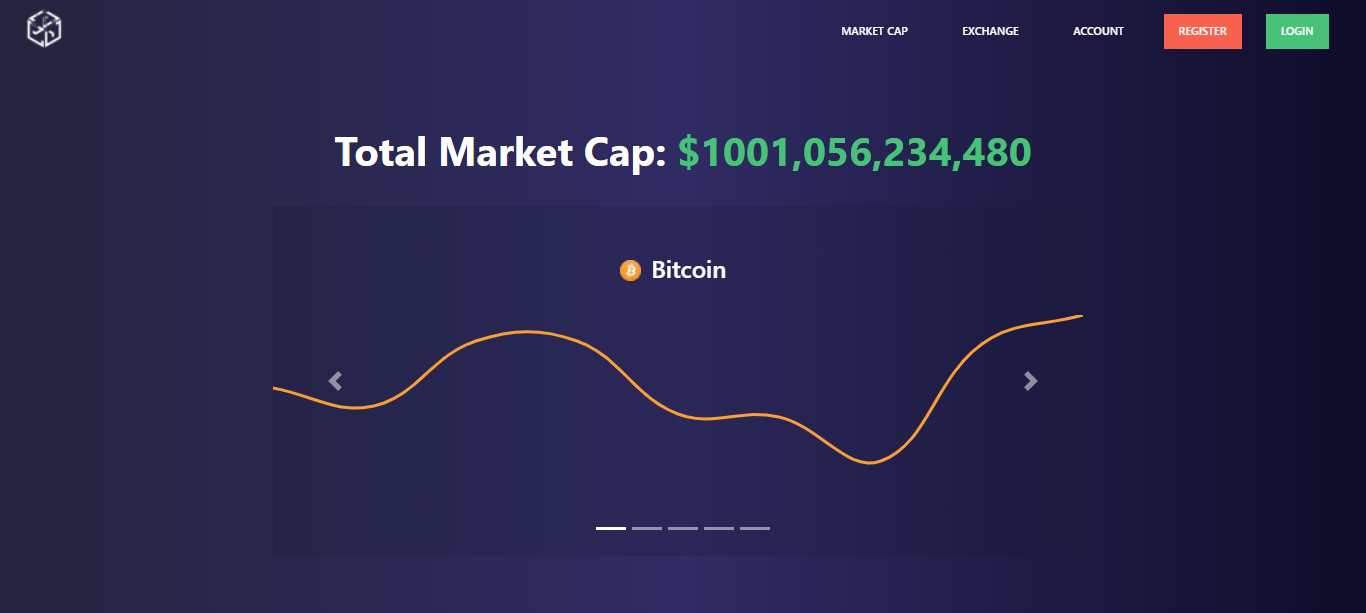
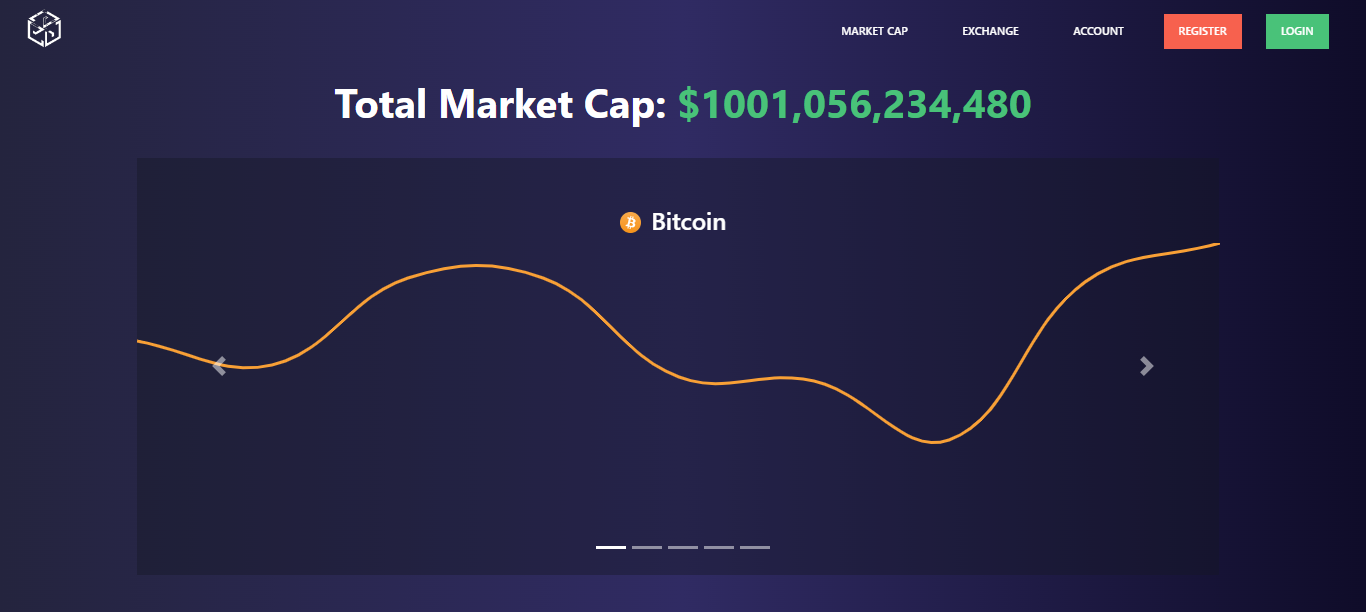
Version 1.8 - Real-time market cap

diff --git a/index.html b/index.html
@@ -16,12 +16,6 @@
     h1 {
         margin: 3rem 0 2rem;
     }
-
-    @media screen and (min-width: 1281px) {
-        .col-2-3 {
-            margin: 0 20%;
-        }
-    }
 </style>
 <body>
 <div id="loading">
@@ -48,8 +42,8 @@
 </nav>
 
 <!-- Main Content -->
-<div class="flex-container">
-    <div class="col-2-3 text-center fadeInUp">
+<div class="flex-container" style="margin-top: 2rem">
+    <div class="col-2-3 text-center fadeInDown">
         <h1><b>Total Market Cap: <span class="green-text">$1001,056,234,480</span></b></h1>
         <div id="carouselIndicators" class="carousel slide carousel-fade" data-ride="carousel">
             <ol class="carousel-indicators">
@@ -129,153 +123,158 @@
             </a>
         </div>
 
-        <h1 class="green-text"><b>Top 10 Cryptocurrencies</b></h1>
+        <h1><b><span class="green-text">Top 100</span> Cryptocurrencies</b></h1>
 
-        <table class="history-table marketcap-table">
-            <thead>
-            <tr>
-                <th scope="col">Rank</th>
-                <th scope="col">Name</th>
-                <th scope="col">Market Cap</th>
-                <th scope="col">Price</th>
-                <th scope="col">24 Hour Volume</th>
-                <th scope="col">Change</th>
-                <th scope="col">7 days</th>
-            </tr>
-            </thead>
-            <tbody>
-            <tr>
-                <th>1</th>
-                <td class="coin-name">
-                    <img src="images/coins/btc.png" width="15" class="coin-icon" alt="coin">BTC
-                </td>
-                <td>$239048209</td>
-                <td>$4559</td>
-                <td>$2344234</td>
-                <td class="red-text">-0.04%</td>
-                <td class="marketcap-canvas" data-charts="[65,59,81,81,56,55,40,80,90]" data-border="dc3545">
-                    <canvas></canvas>
-                </td>
-            </tr>
-            <tr>
-                <th>2</th>
-                <td class="coin-name">
-                    <img src="images/coins/eth.png" width="15" class="coin-icon" alt="coin">ETH
-                </td>
-                <td>$239048209</td>
-                <td>$4559</td>
-                <td>$2344234</td>
-                <td class="red-text">-4.04%</td>
-                <td class="marketcap-canvas" data-charts="[34,54,23,56,76,78,34,56,45]" data-border="dc3545">
-                    <canvas></canvas>
-                </td>
-            </tr>
-            <tr>
-                <th>3</th>
-                <td class="coin-name">
-                    <img src="images/coins/ltc.png" width="15" class="coin-icon" alt="coin">LTC
-                </td>
-                <td>$239048209</td>
-                <td>$4559</td>
-                <td>$2344234</td>
-                <td class="green-text">3.04%</td>
-                <td class="marketcap-canvas" data-charts="[55,40,80,90,65,59,81,81,56]" data-border="8cd8aa">
-                    <canvas></canvas>
-                </td>
-            </tr>
-            <tr>
-                <th>4</th>
-                <td class="coin-name">
-                    <img src="images/coins/btcc.png" width="15" class="coin-icon" alt="coin">BTCC
-                </td>
-                <td>$239048209</td>
-                <td>$4559</td>
-                <td>$2344234</td>
-                <td class="red-text">-0.45%</td>
-                <td class="marketcap-canvas" data-charts="[89,23,67,45,23,45,78,34,56,67]" data-border="dc3545">
-                    <canvas></canvas>
-                </td>
-            </tr>
-            <tr>
-                <th>5</th>
-                <td class="coin-name">
-                    <img src="images/coins/xrp.png" width="15" class="coin-icon" alt="coin">XRP
-                </td>
-                <td>$239048209</td>
-                <td>$4559</td>
-                <td>$2344234</td>
-                <td class="green-text">6.04%</td>
-                <td class="marketcap-canvas" data-charts="[34,45,56,67,65,45,34,23,45,56]" data-border="8cd8aa">
-                    <canvas></canvas>
-                </td>
-            </tr>
-            <tr>
-                <th>6</th>
-                <td class="coin-name">
-                    <img src="images/coins/tron.png" width="15" class="coin-icon" alt="coin">TRX
-                </td>
-                <td>$239048209</td>
-                <td>$4559</td>
-                <td>$2344234</td>
-                <td class="red-text">-6.7%</td>
-                <td class="marketcap-canvas" data-charts="[45,34,45,56,67,45,56,67,78,67]" data-border="dc3545">
-                    <canvas></canvas>
-                </td>
-            </tr>
-            <tr>
-                <th>7</th>
-                <td class="coin-name">
-                    <img src="images/coins/stlr.png" width="15" class="coin-icon" alt="coin">XLM
-                </td>
-                <td>$239048209</td>
-                <td>$4559</td>
-                <td>$2344234</td>
-                <td class="green-text">2.04%</td>
-                <td class="marketcap-canvas" data-charts="[56,45,67,45,34,45,56,67,56,45]" data-border="8cd8aa">
-                    <canvas></canvas>
-                </td>
-            </tr>
-            <tr>
-                <th>8</th>
-                <td class="coin-name">
-                    <img src="images/coins/tether.png" width="15" class="coin-icon" alt="coin">USDT
-                </td>
-                <td>$239048209</td>
-                <td>$4559</td>
-                <td>$2344234</td>
-                <td class="green-text">5.04%</td>
-                <td class="marketcap-canvas" data-charts="[65,59,81,81,56,55,40,80,90]" data-border="8cd8aa">
-                    <canvas></canvas>
-                </td>
-            </tr>
-            <tr>
-                <th>9</th>
-                <td class="coin-name">
-                    <img src="images/coins/dash.png" width="15" class="coin-icon" alt="coin">DSH
-                </td>
-                <td>$239048209</td>
-                <td>$4559</td>
-                <td>$2344234</td>
-                <td class="green-text">2.04%</td>
-                <td class="marketcap-canvas" data-charts="[65,59,81,81,56,55,40,80,90]" data-border="8cd8aa">
-                    <canvas></canvas>
-                </td>
-            </tr>
-            <tr>
-                <th>10</th>
-                <td class="coin-name">
-                    <img src="images/coins/monero.png" width="15" class="coin-icon" alt="coin">XMR
-                </td>
-                <td>$239048209</td>
-                <td>$4559</td>
-                <td>$2344234</td>
-                <td class="green-text">3.04%</td>
-                <td class="marketcap-canvas" data-charts="[65,81,40,80,56,59,81,55,90]" data-border="8cd8aa">
-                    <canvas></canvas>
-                </td>
-            </tr>
-            </tbody>
-        </table>
+        <div class="form" style="border: none; margin-top: 2rem; overflow: hidden;">
+            <iframe src="https://widget.coinlib.io/widget?type=full_v2&theme=dark&cnt=100&pref_coin_id=1505&graph=yes"
+                    width="103%" height="1000px" marginwidth="0" marginheight="0" frameborder="0" border="0">
+            </iframe>
+        </div>
+        <!--        <table class="history-table marketcap-table">-->
+        <!--            <thead>-->
+        <!--            <tr>-->
+        <!--                <th scope="col">Rank</th>-->
+        <!--                <th scope="col">Name</th>-->
+        <!--                <th scope="col">Market Cap</th>-->
+        <!--                <th scope="col">Price</th>-->
+        <!--                <th scope="col">24 Hour Volume</th>-->
+        <!--                <th scope="col">Change</th>-->
+        <!--                <th scope="col">7 days</th>-->
+        <!--            </tr>-->
+        <!--            </thead>-->
+        <!--            <tbody>-->
+        <!--            <tr>-->
+        <!--                <th>1</th>-->
+        <!--                <td class="coin-name">-->
+        <!--                    <img src="images/coins/btc.png" width="15" class="coin-icon" alt="coin">BTC-->
+        <!--                </td>-->
+        <!--                <td>$239048209</td>-->
+        <!--                <td>$4559</td>-->
+        <!--                <td>$2344234</td>-->
+        <!--                <td class="red-text">-0.04%</td>-->
+        <!--                <td class="marketcap-canvas" data-charts="[65,59,81,81,56,55,40,80,90]" data-border="dc3545">-->
+        <!--                    <canvas></canvas>-->
+        <!--                </td>-->
+        <!--            </tr>-->
+        <!--            <tr>-->
+        <!--                <th>2</th>-->
+        <!--                <td class="coin-name">-->
+        <!--                    <img src="images/coins/eth.png" width="15" class="coin-icon" alt="coin">ETH-->
+        <!--                </td>-->
+        <!--                <td>$239048209</td>-->
+        <!--                <td>$4559</td>-->
+        <!--                <td>$2344234</td>-->
+        <!--                <td class="red-text">-4.04%</td>-->
+        <!--                <td class="marketcap-canvas" data-charts="[34,54,23,56,76,78,34,56,45]" data-border="dc3545">-->
+        <!--                    <canvas></canvas>-->
+        <!--                </td>-->
+        <!--            </tr>-->
+        <!--            <tr>-->
+        <!--                <th>3</th>-->
+        <!--                <td class="coin-name">-->
+        <!--                    <img src="images/coins/ltc.png" width="15" class="coin-icon" alt="coin">LTC-->
+        <!--                </td>-->
+        <!--                <td>$239048209</td>-->
+        <!--                <td>$4559</td>-->
+        <!--                <td>$2344234</td>-->
+        <!--                <td class="green-text">3.04%</td>-->
+        <!--                <td class="marketcap-canvas" data-charts="[55,40,80,90,65,59,81,81,56]" data-border="8cd8aa">-->
+        <!--                    <canvas></canvas>-->
+        <!--                </td>-->
+        <!--            </tr>-->
+        <!--            <tr>-->
+        <!--                <th>4</th>-->
+        <!--                <td class="coin-name">-->
+        <!--                    <img src="images/coins/btcc.png" width="15" class="coin-icon" alt="coin">BTCC-->
+        <!--                </td>-->
+        <!--                <td>$239048209</td>-->
+        <!--                <td>$4559</td>-->
+        <!--                <td>$2344234</td>-->
+        <!--                <td class="red-text">-0.45%</td>-->
+        <!--                <td class="marketcap-canvas" data-charts="[89,23,67,45,23,45,78,34,56,67]" data-border="dc3545">-->
+        <!--                    <canvas></canvas>-->
+        <!--                </td>-->
+        <!--            </tr>-->
+        <!--            <tr>-->
+        <!--                <th>5</th>-->
+        <!--                <td class="coin-name">-->
+        <!--                    <img src="images/coins/xrp.png" width="15" class="coin-icon" alt="coin">XRP-->
+        <!--                </td>-->
+        <!--                <td>$239048209</td>-->
+        <!--                <td>$4559</td>-->
+        <!--                <td>$2344234</td>-->
+        <!--                <td class="green-text">6.04%</td>-->
+        <!--                <td class="marketcap-canvas" data-charts="[34,45,56,67,65,45,34,23,45,56]" data-border="8cd8aa">-->
+        <!--                    <canvas></canvas>-->
+        <!--                </td>-->
+        <!--            </tr>-->
+        <!--            <tr>-->
+        <!--                <th>6</th>-->
+        <!--                <td class="coin-name">-->
+        <!--                    <img src="images/coins/tron.png" width="15" class="coin-icon" alt="coin">TRX-->
+        <!--                </td>-->
+        <!--                <td>$239048209</td>-->
+        <!--                <td>$4559</td>-->
+        <!--                <td>$2344234</td>-->
+        <!--                <td class="red-text">-6.7%</td>-->
+        <!--                <td class="marketcap-canvas" data-charts="[45,34,45,56,67,45,56,67,78,67]" data-border="dc3545">-->
+        <!--                    <canvas></canvas>-->
+        <!--                </td>-->
+        <!--            </tr>-->
+        <!--            <tr>-->
+        <!--                <th>7</th>-->
+        <!--                <td class="coin-name">-->
+        <!--                    <img src="images/coins/stlr.png" width="15" class="coin-icon" alt="coin">XLM-->
+        <!--                </td>-->
+        <!--                <td>$239048209</td>-->
+        <!--                <td>$4559</td>-->
+        <!--                <td>$2344234</td>-->
+        <!--                <td class="green-text">2.04%</td>-->
+        <!--                <td class="marketcap-canvas" data-charts="[56,45,67,45,34,45,56,67,56,45]" data-border="8cd8aa">-->
+        <!--                    <canvas></canvas>-->
+        <!--                </td>-->
+        <!--            </tr>-->
+        <!--            <tr>-->
+        <!--                <th>8</th>-->
+        <!--                <td class="coin-name">-->
+        <!--                    <img src="images/coins/tether.png" width="15" class="coin-icon" alt="coin">USDT-->
+        <!--                </td>-->
+        <!--                <td>$239048209</td>-->
+        <!--                <td>$4559</td>-->
+        <!--                <td>$2344234</td>-->
+        <!--                <td class="green-text">5.04%</td>-->
+        <!--                <td class="marketcap-canvas" data-charts="[65,59,81,81,56,55,40,80,90]" data-border="8cd8aa">-->
+        <!--                    <canvas></canvas>-->
+        <!--                </td>-->
+        <!--            </tr>-->
+        <!--            <tr>-->
+        <!--                <th>9</th>-->
+        <!--                <td class="coin-name">-->
+        <!--                    <img src="images/coins/dash.png" width="15" class="coin-icon" alt="coin">DSH-->
+        <!--                </td>-->
+        <!--                <td>$239048209</td>-->
+        <!--                <td>$4559</td>-->
+        <!--                <td>$2344234</td>-->
+        <!--                <td class="green-text">2.04%</td>-->
+        <!--                <td class="marketcap-canvas" data-charts="[65,59,81,81,56,55,40,80,90]" data-border="8cd8aa">-->
+        <!--                    <canvas></canvas>-->
+        <!--                </td>-->
+        <!--            </tr>-->
+        <!--            <tr>-->
+        <!--                <th>10</th>-->
+        <!--                <td class="coin-name">-->
+        <!--                    <img src="images/coins/monero.png" width="15" class="coin-icon" alt="coin">XMR-->
+        <!--                </td>-->
+        <!--                <td>$239048209</td>-->
+        <!--                <td>$4559</td>-->
+        <!--                <td>$2344234</td>-->
+        <!--                <td class="green-text">3.04%</td>-->
+        <!--                <td class="marketcap-canvas" data-charts="[65,81,40,80,56,59,81,55,90]" data-border="8cd8aa">-->
+        <!--                    <canvas></canvas>-->
+        <!--                </td>-->
+        <!--            </tr>-->
+        <!--            </tbody>-->
+        <!--        </table>-->
     </div>
 </div>
 

diff --git a/css/src/style.css b/css/src/style.css
@@ -63,8 +63,8 @@ body::-webkit-scrollbar {
 }
 
 .col-2-3 {
-    width: 60%;
-    margin: 0 1.5%;
+    width: 80%;
+    margin: 0 10%;
 }
 
 .col-3-3 {
@@ -105,5 +105,21 @@ body::-webkit-scrollbar {
 
 .fadeInUp {
     animation-name: fadeInUp;
+    animation-duration: 1s;
+}
+
+@keyframes fadeInDown {
+    0% {
+        opacity: 0;
+        transform: translateY(-20px);
+    }
+    100% {
+        opacity: 1;
+        transform: translateY(0px);
+    }
+}
+
+.fadeInDown {
+    animation-name: fadeInDown;
     animation-duration: 1s;
 }

diff --git a/css/src/chart.css b/css/src/chart.css
@@ -5,7 +5,7 @@
 }
 
 .line-chart {
-    background: rgba(19, 26, 51, 0.2);
+    background: rgba(19,23,34,0.4);
     width: 100%;
     height: 100%;
     margin: 0 -10px -2rem;
